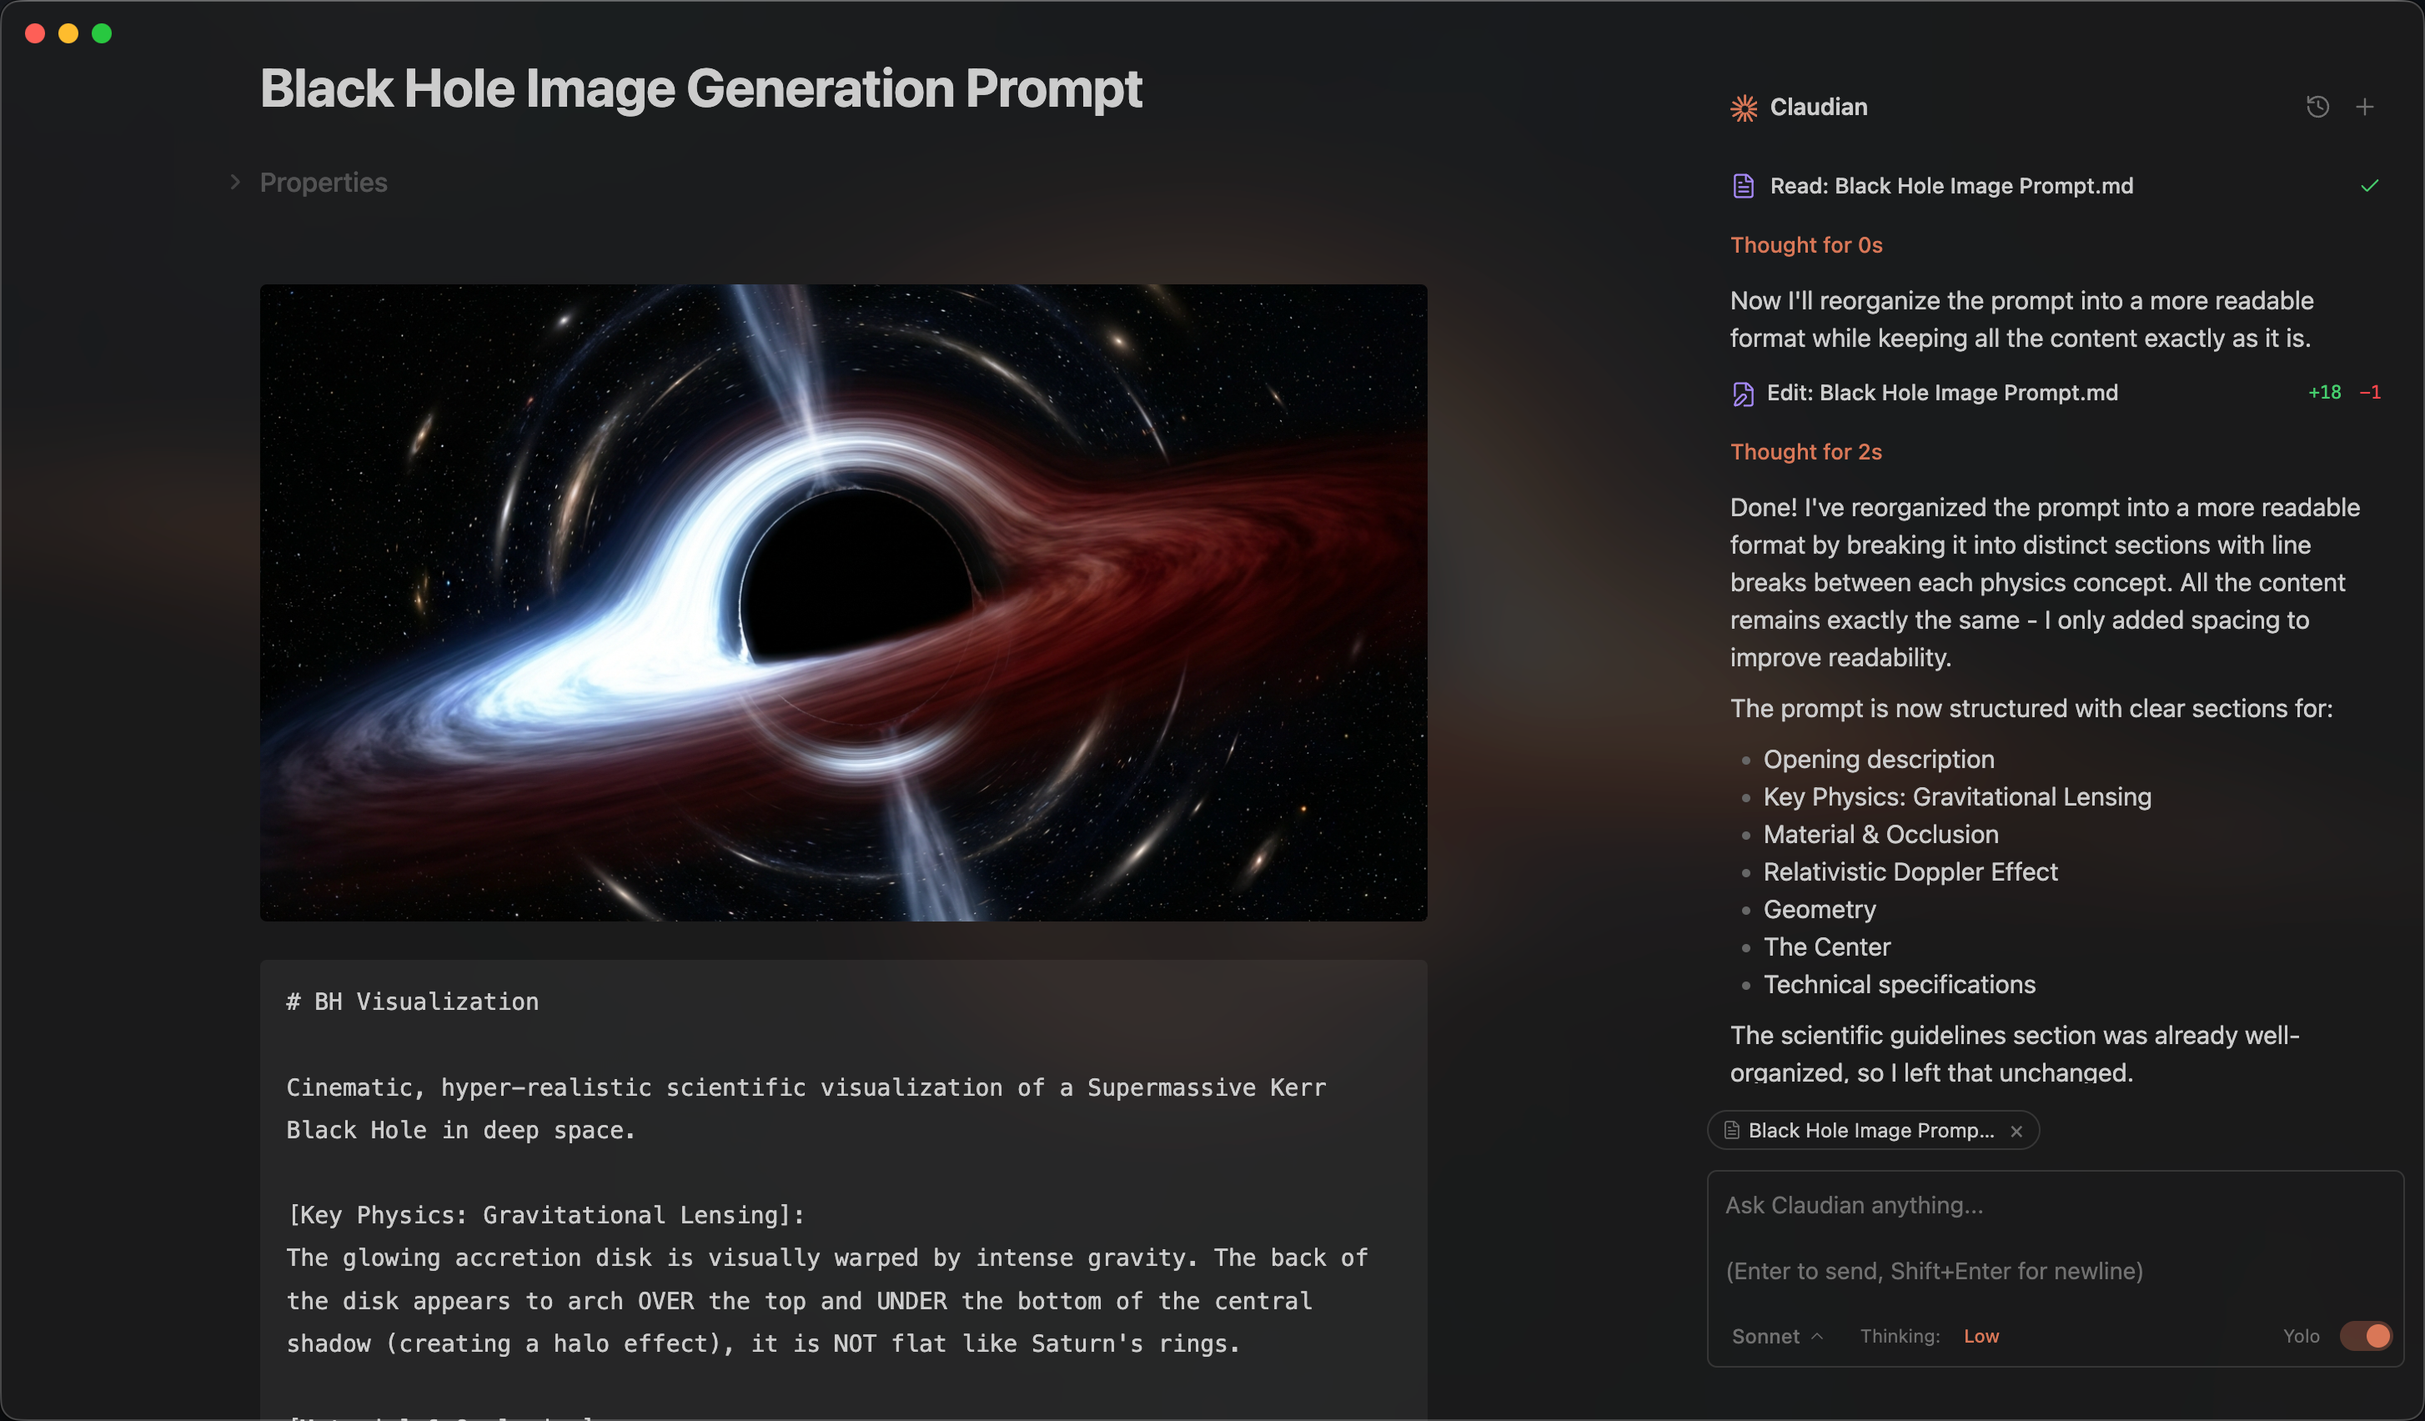
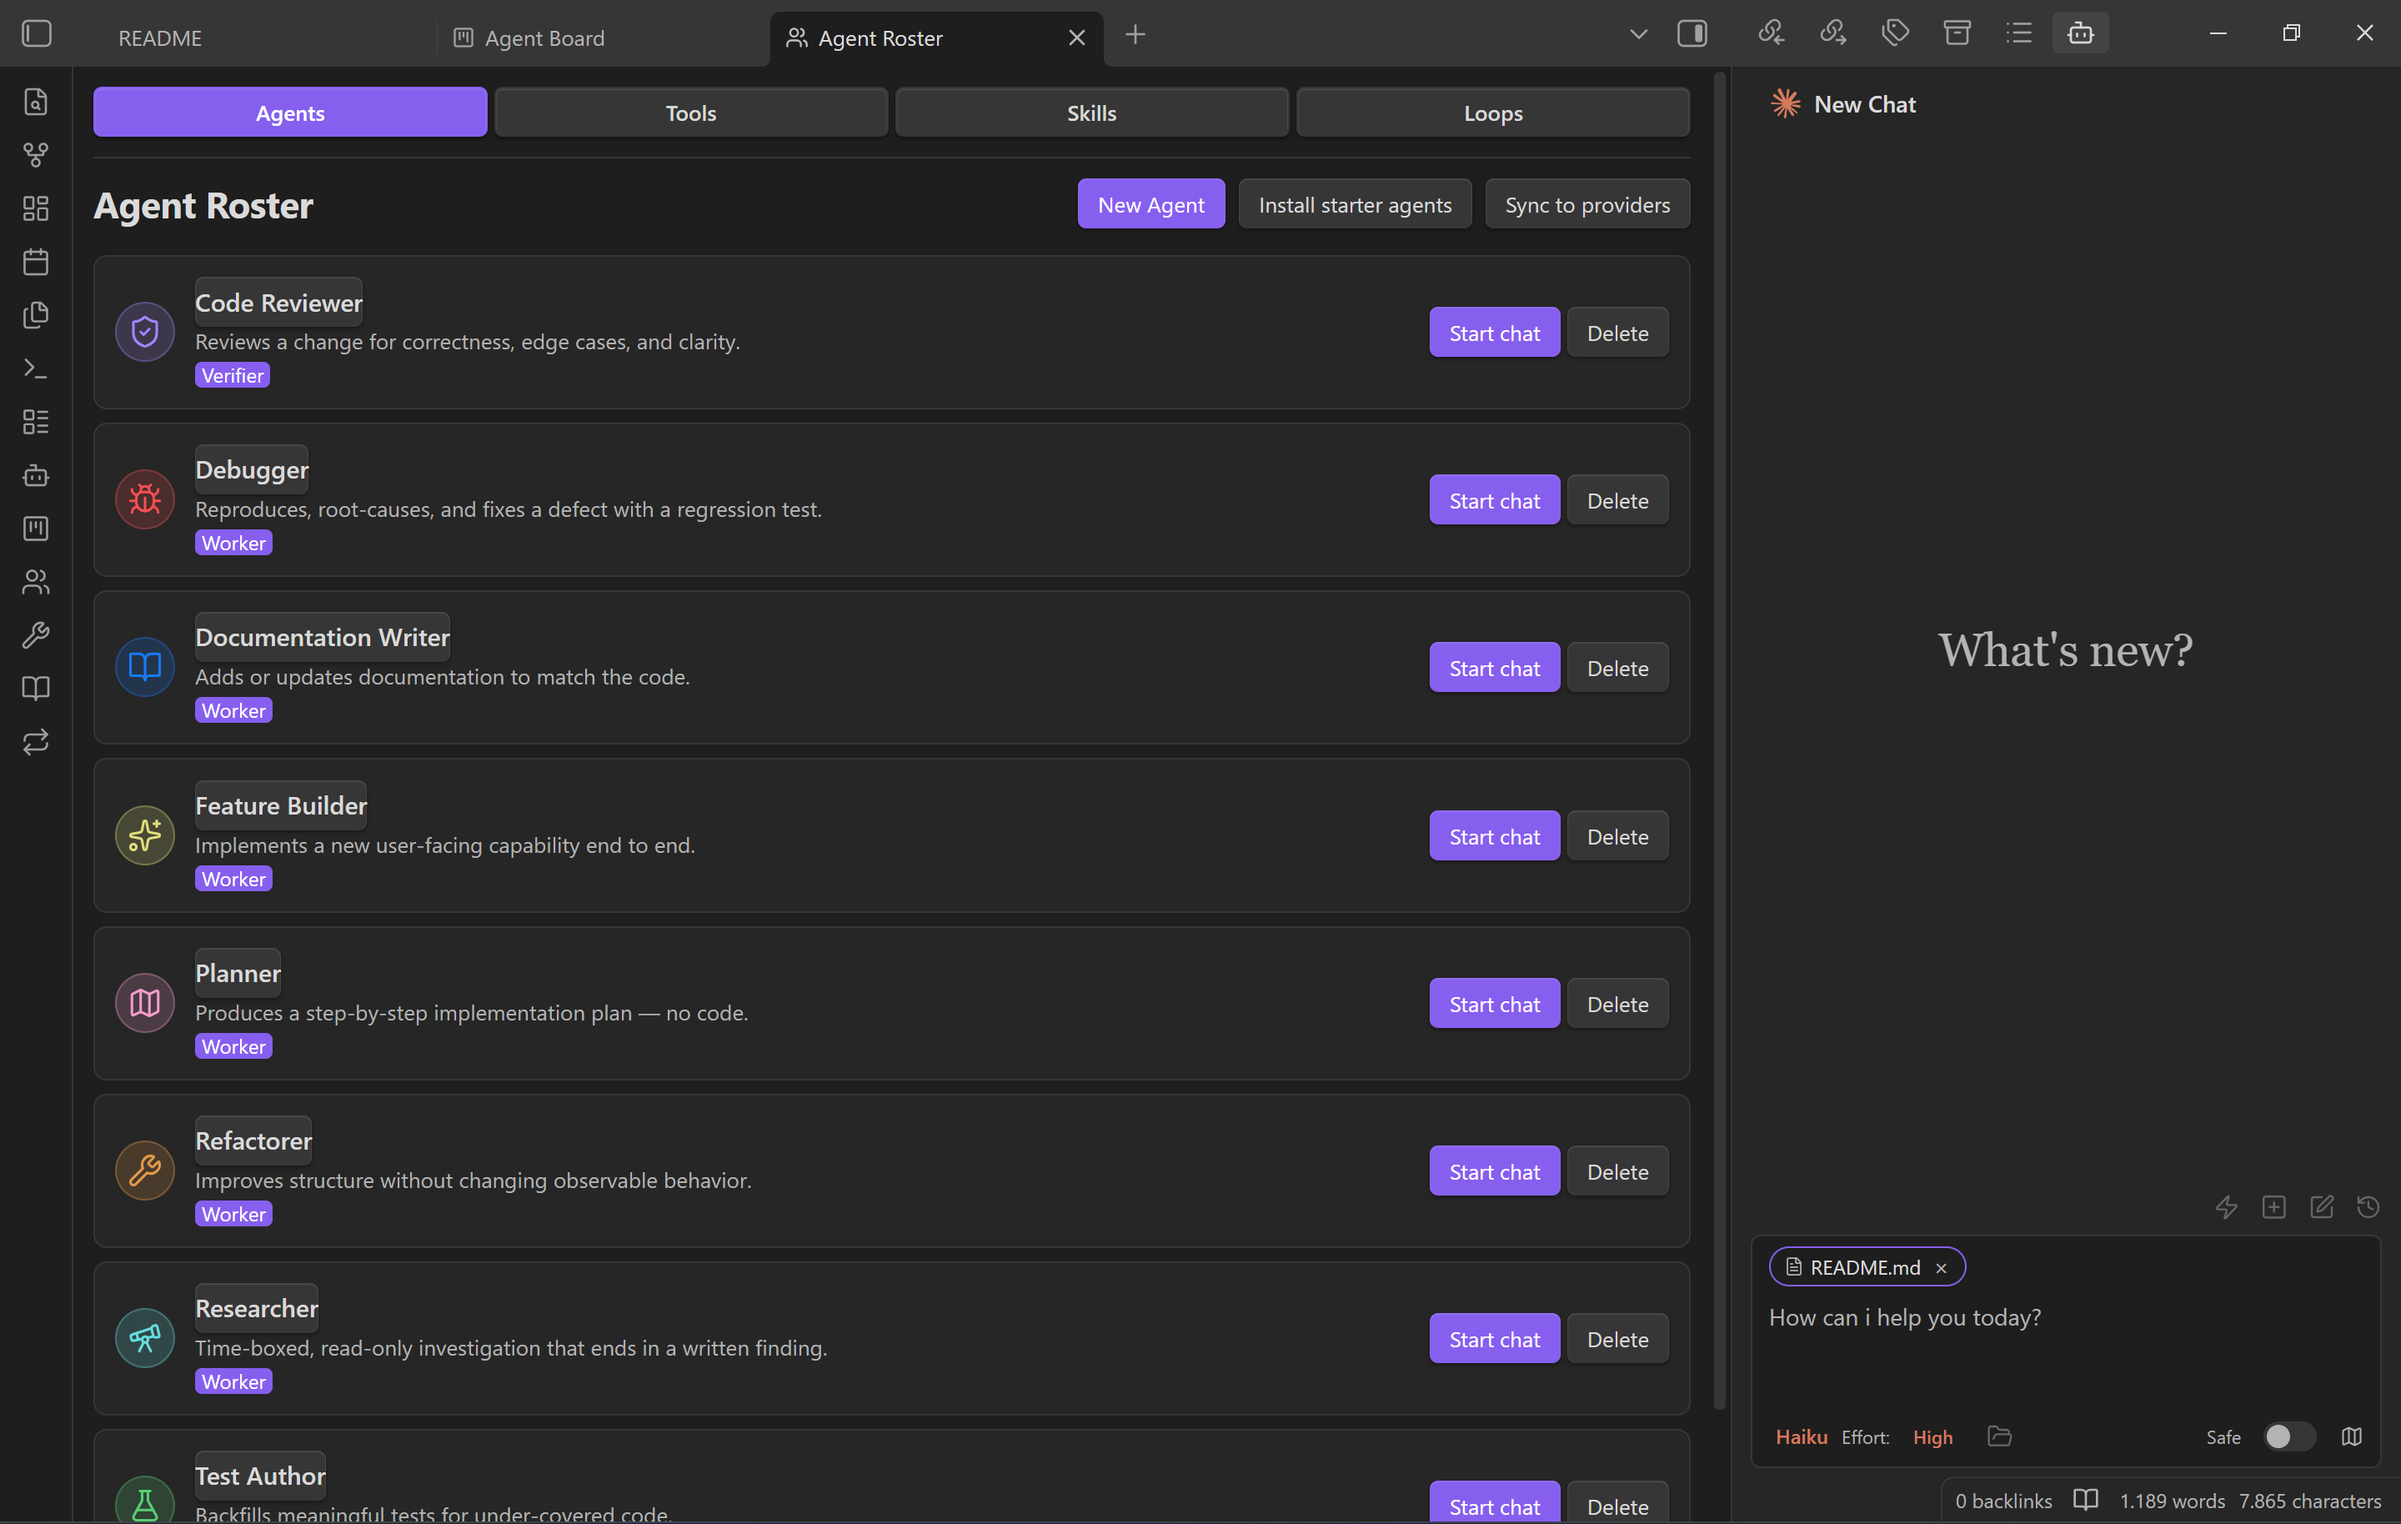
docs: prepare for Obsidian community marketplace submission (#466)

diff --git a/src/features/settings/customModels/customModelsCommitHooks.ts b/src/features/settings/customModels/customModelsCommitHooks.ts
@@ -1,6 +1,7 @@
 import { ProviderRegistry } from '../../../core/providers/ProviderRegistry';
 import { ProviderSettingsCoordinator } from '../../../core/providers/ProviderSettingsCoordinator';
 import type { ProviderId } from '../../../core/providers/types';
+import { asSettingsBag } from '../../../core/types/settings';
 import type { SettingsCtx } from '../registry/SettingsField';
 import type { CustomModelsCommitHooks } from './CustomModelsTable';
 
@@ -17,7 +18,7 @@ export function customModelsCommitHooks(
 ): CustomModelsCommitHooks {
   return {
     beforeSave: () => {
-      const settings = ctx.settings as unknown as Record<string, unknown>;
+      const settings = asSettingsBag(ctx.settings);
       // Legacy guard: only repoint the active model when this provider owns
       // the current settings selection (or no provider is pinned yet).
       const activeProvider = settings.settingsProvider;

diff --git a/src/features/settings/firstRunBanner/FirstRunBanner.ts b/src/features/settings/firstRunBanner/FirstRunBanner.ts
@@ -41,10 +41,7 @@ export class FirstRunBanner {
 
   private async handleEnable(): Promise<void> {
     const checked = this.rows.filter((r) => r.cb.checked).map((r) => r.id);
-    const live = this.ctx.settings as unknown as {
-      providerConfigs?: Record<string, { enabled?: boolean }>;
-      firstRunDismissed?: boolean;
-    };
+    const live = this.ctx.settings;
     live.providerConfigs = live.providerConfigs ?? {};
     for (const id of checked) {
       live.providerConfigs[id] = { ...(live.providerConfigs[id] ?? {}), enabled: true };

diff --git a/README.md b/README.md
@@ -2,11 +2,7 @@
 
 > Plan the work, run it, review what came back, keep the record. All in your vault.
 
-![GitHub stars](https://img.shields.io/github/stars/Luis85/specorator?style=social)
-![GitHub release](https://img.shields.io/github/v/release/Luis85/specorator)
-![License](https://img.shields.io/github/license/Luis85/specorator)
-
-![Preview](Preview.png)
+![[Preview.png]]
 
 You're already using AI for serious work. Drafting emails. Planning trips. Comparing options. Reading the long report you don't want to read yourself. The conversations help, but the moment you close the tab, the work is gone. Tomorrow you start again from scratch.
 
@@ -66,6 +62,48 @@ Install via the [Beta Reviewers Auto-update Tool (BRAT)](https://github.com/TfTH
 Submission to the official Obsidian community-plugin registry is planned once v1.0.x stabilises.
 
 Already installed? Open **Settings → Specorator** to point it at the providers you have, then open the chat sidebar from the ribbon or the command palette.
+
+## Privacy, network use, and data handling
+
+Specorator is a local plugin with **no telemetry and no analytics** — it never
+collects usage data or phones home. What leaves your machine is only what you
+send to the AI provider you choose, and only when you send it.
+
+- **Remote services.** When you run a turn, the prompt plus any context you
+  attach (selected text, mentioned files, images) is sent to the provider that
+  powers that conversation: **Anthropic** (Claude), **OpenAI** (Codex),
+  **Cursor**, or **Opencode**. If you configure MCP servers, the data you route
+  to them is sent to those endpoints too. Review each provider's own privacy
+  policy and terms — your usage is governed by them. No provider is contacted
+  until you trigger a turn against it.
+- **No account with us.** Specorator has no backend and no Specorator account.
+  Provider authentication is handled by each provider's own CLI/credentials.
+- **Credentials.** Provider API keys, MCP auth headers, and MCP env vars are
+  stored in your OS keychain via Obsidian `SecretStorage`, not in plain-text
+  vault config files. (This is why `minAppVersion` is 1.11.5.)
+- **Filesystem access beyond the vault.** Specorator reads provider transcript
+  directories outside your vault — `~/.claude/`, `~/.codex/`, and `~/.cursor/` —
+  to hydrate conversation history. The agents it runs use your vault as their
+  working directory, but because they are real provider-native CLIs they can
+  read, write, and execute anywhere your user account can. See **Security
+  model** below.
+
+## Security model
+
+Specorator runs **real provider-native agent CLIs** as subprocesses, which means
+the agent can edit files and run shell commands. Treat it with the same caution
+you would the underlying CLI in a terminal.
+
+- **Preview before apply (default).** File writes and edits surface a word-level
+  diff you approve before anything lands in your notes.
+- **YOLO mode is opt-in.** Turning it on lets a run apply edits and run tools
+  without per-step approval. Only enable it for runs you trust.
+- **Scoped subprocess environment.** Child processes receive an allowlisted
+  environment, not your full shell environment, so host secrets are not leaked
+  wholesale into spawned CLIs.
+- **External binaries required.** Specorator does not bundle the agents; it
+  drives the CLIs you install yourself (see Requirements). It contains no
+  auto-update mechanism — updates come through Obsidian.
 
 ## Where it's heading
 

diff --git a/SECURITY.md b/SECURITY.md
@@ -1,0 +1,35 @@
+# Security policy
+
+## What Specorator does
+
+Specorator embeds provider-native agent CLIs (Claude Code, Codex, Opencode,
+Cursor Agent) inside Obsidian and drives them as subprocesses. Those agents can
+read and write files and execute shell commands using your vault as their
+working directory. Because they are the real provider CLIs, their reach is the
+same as running them yourself in a terminal under your user account.
+
+The plugin itself:
+
+- contains **no telemetry, analytics, or auto-update** mechanism;
+- sends data over the network **only** to the AI provider (or MCP server) you
+  explicitly direct a turn to, and only when you trigger that turn;
+- stores provider API keys, MCP auth headers, and MCP env vars in the OS
+  keychain via Obsidian `SecretStorage`, never in plain-text vault files;
+- passes spawned subprocesses an **allowlisted** environment rather than your
+  full shell environment.
+
+## Safety controls
+
+- **Preview-before-apply** is the default: file edits surface a diff for your
+  approval before they touch your notes.
+- **YOLO mode** (opt-in) removes per-step approval and should be enabled only
+  for runs you trust.
+- The agent runs with the permissions of your user account; review any tools or
+  MCP servers you grant it.
+
+## Reporting a vulnerability
+
+Please report security issues privately via [GitHub Security
+Advisories](https://github.com/Luis85/specorator/security/advisories/new)
+rather than opening a public issue. Include reproduction steps and the affected
+version. We aim to acknowledge reports within a few days.
